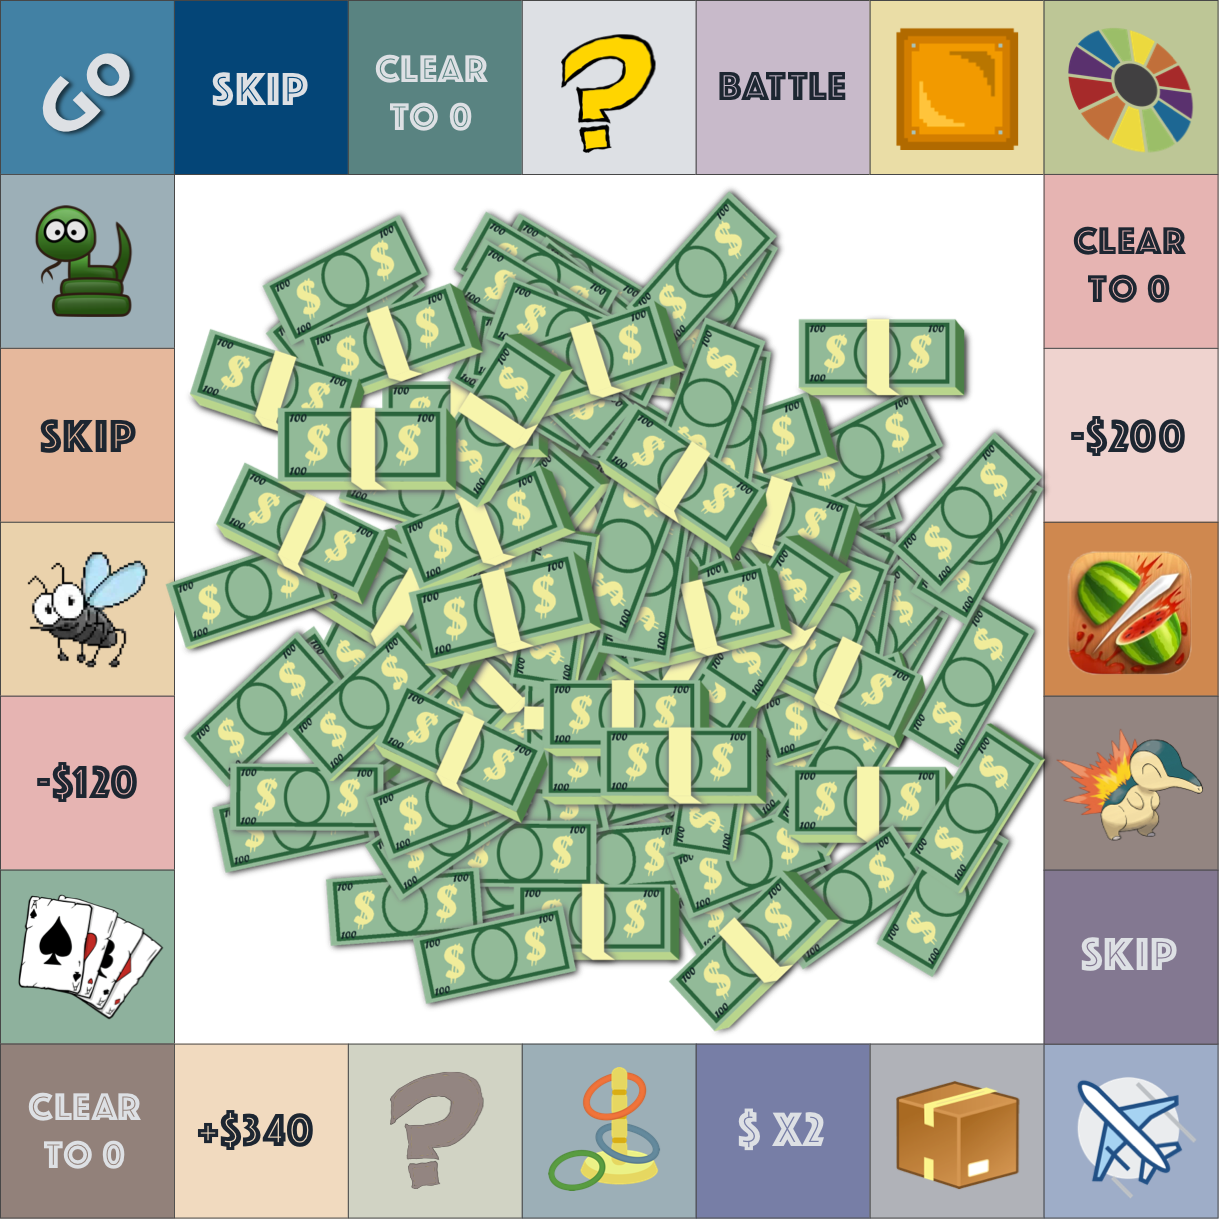
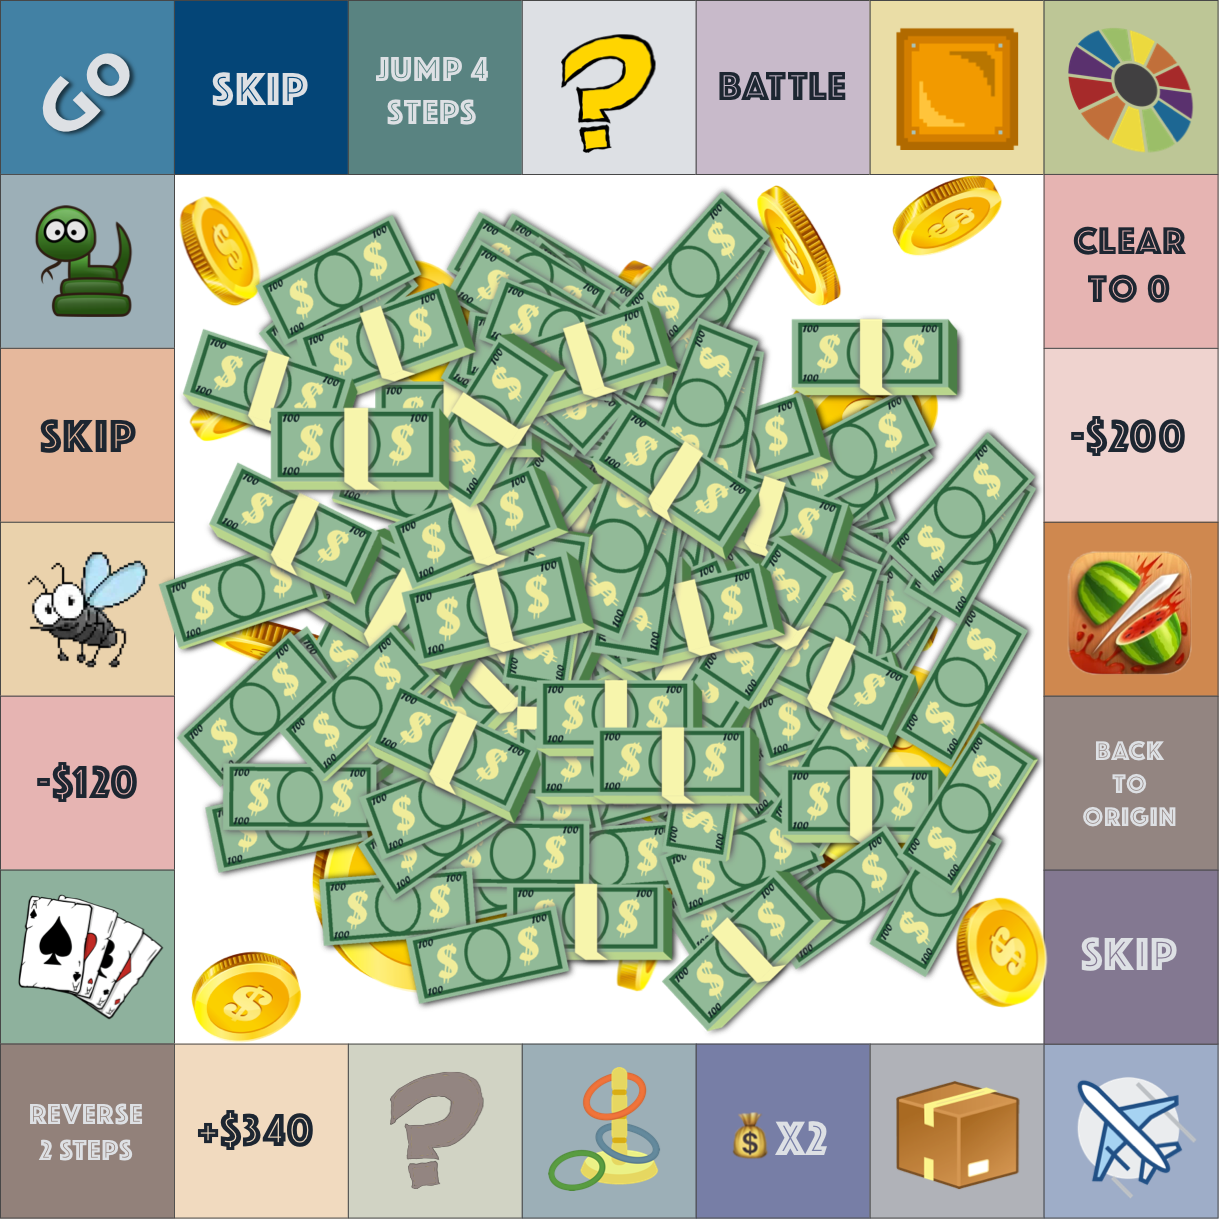
Update board and game reward

diff --git a/Assets/Board Scene/GameControl.cs b/Assets/Board Scene/GameControl.cs
@@ -19,7 +19,10 @@ public class GameControl : MonoBehaviour {
     private static bool isRewarded = true;
 
     HashSet<int> minigamesIndexes = new HashSet<int>();
-
+    private int[] waypoints_reward = {0, 0, 0, 4, -1, 0, 0,
+                                      0, 0, 0, -10, 0, 0,
+                                      0, 0, 0, -1, 0, -2,
+                                      0, 0, 0, 0, 0};
     // Use this for initialization
     void Start () {
         minigamesIndexes.Add(3);
@@ -89,30 +92,31 @@ public class GameControl : MonoBehaviour {
         // Set rewarded
         isRewarded = true;
 
-        // Check steps
-        // int randomRewardIndex = UnityEngine.Random.Range(0, waypoints_reward.Length - 1);
-        // int rewardedSteps = waypoints_reward[randomRewardIndex];
-
-        // Load mini game if no reward -> for testing
+        // Current Index
         int currentIndex = player1.GetComponent<PlayerMovement>().currentWaypointIndex;
-        if (minigamesIndexes.Contains(currentIndex)) {
+
+        // Check steps
+        int rewardedSteps = waypoints_reward[currentIndex];
+
+        // Load mini game if no reward and is in minigamesIndexes
+        if (rewardedSteps == 0 && minigamesIndexes.Contains(currentIndex)) {
             sceneManager.GetComponent<SceneTransitions>().loadScene(sceneName: "MiniGame-1");
             return;
         }
 
         // Setup UI
-        // playerMoveCount.gameObject.SetActive(true);
-        // playerMoveCount.GetComponent<Text>().text = "You are rewarded to move" + rewardedSteps + " steps";
+        playerMoveCount.gameObject.SetActive(true);
+        playerMoveCount.GetComponent<Text>().text = "You are rewarded to move" + rewardedSteps + " steps";
 
-        // // Setup player movement
-        // if (rewardedSteps > 0) {
-        //     player1.GetComponent<PlayerMovement>().moveForward = true;
-        // } else if (rewardedSteps < 0) {
-        //     player1.GetComponent<PlayerMovement>().moveForward = false;
-        // }
+        // Setup player movement
+        if (rewardedSteps > 0) {
+            player1.GetComponent<PlayerMovement>().moveForward = true;
+        } else if (rewardedSteps < 0) {
+            player1.GetComponent<PlayerMovement>().moveForward = false;
+        }
 
-        // player1.GetComponent<PlayerMovement>().destinationWaypointIndex = Math.Max(player1.GetComponent<PlayerMovement>().currentWaypointIndex + rewardedSteps, 0);
-        // player1.GetComponent<PlayerMovement>().moveFinished = false;
-        // player1.GetComponent<PlayerMovement>().moveAllowed = true;
+        player1.GetComponent<PlayerMovement>().destinationWaypointIndex = Math.Max(player1.GetComponent<PlayerMovement>().currentWaypointIndex + rewardedSteps, 0);
+        player1.GetComponent<PlayerMovement>().moveFinished = false;
+        player1.GetComponent<PlayerMovement>().moveAllowed = true;
     }
 }
